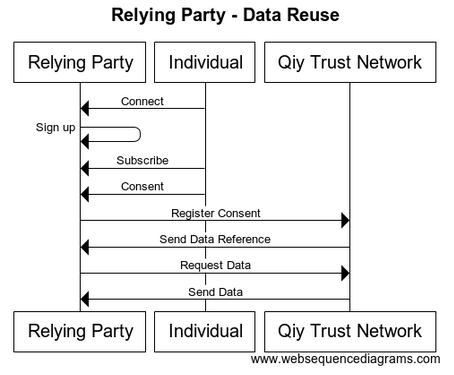
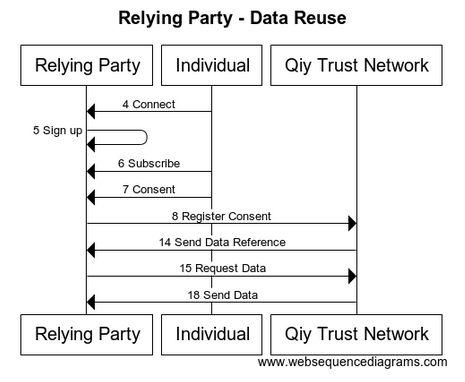
Updated 4.2 Data Reuse (for Relying Party) in Functional Specification.
As part of #2.

Changed region(s): [[0.0308, 0.0, 0.9868, 0.9973]]

diff --git a/Functional Specification.md b/Functional Specification.md
@@ -155,7 +155,7 @@ The flow is as follows:
 
 ## 5.2 Data Reuse
 
-tbd
+The flow for a [Relying Party](Definitions.md#relying-party) in the scenario described in [6 Data Reuse scenario](#6-data-reuse-scenario) is:
 
 ![Relying Party - Data Reuse](./images/Relying_Party_-_Data_Reuse_-_Functional_Specification.png)
 
@@ -443,15 +443,15 @@ participant "Relying Party" as RP
 participant Individual as User
 participant "Qiy Trust Network" as QTF
 
-User -> RP	 	: Connect
-RP -> RP        : Sign up
-User -> RP	 	: Subscribe
-User -> RP	 	: Consent
-RP -> QTF	 	: Register Consent
-QTF -> RP	 	: Send Data Reference
+User -> RP	 	: 4 Connect
+RP -> RP        : 5 Sign up
+User -> RP	 	: 6 Subscribe
+User -> RP	 	: 7 Consent
+RP -> QTF	 	: 8 Register Consent
+QTF -> RP	 	: 14 Send Data Reference
 
-RP -> QTF: Request Data
-QTF -> RP: Send Data
+RP -> QTF: 15 Request Data
+QTF -> RP: 18 Send Data
 
 ```
 
